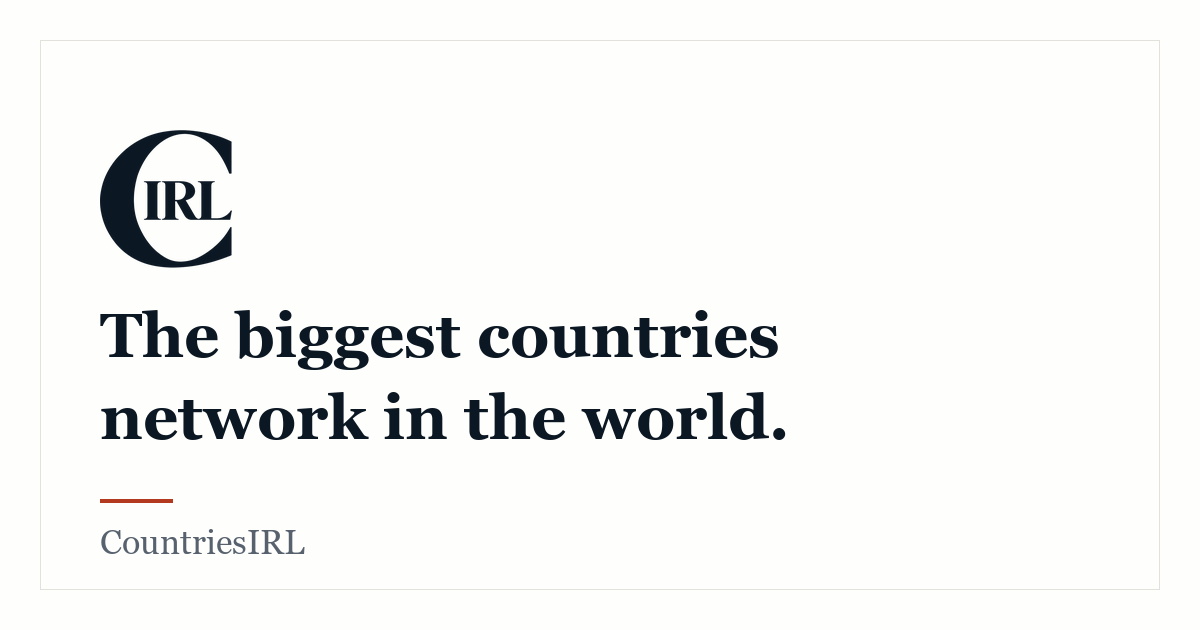
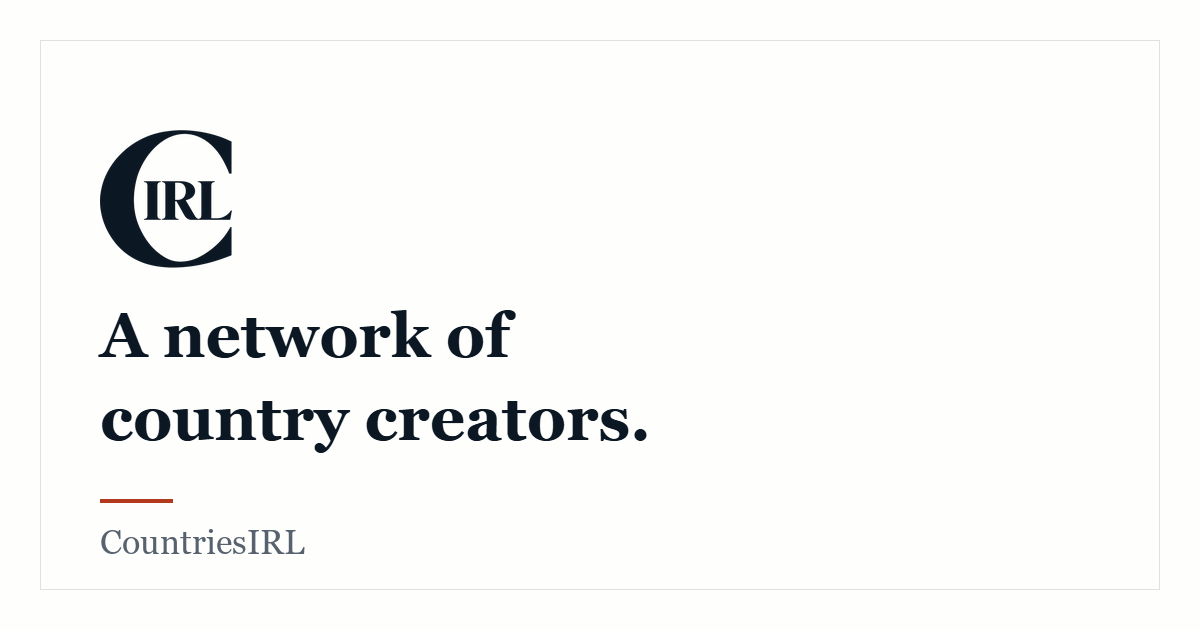
Privacy page, and a plain link preview without the "biggest" claim
- privacy/: what the application form collects, where it is kept (a private Google Sheet), who
  sees it, how to have it sent, corrected or deleted, and GitHub Pages' server logs. Linked from
  every page's footer and from the line under the form's buttons.
- The link preview card now reads "A network of country creators." (was "The biggest countries
  network in the world."), with its alt text to match and ?v=3 so apps fetch it again.
- Title and description: "CountriesIRL | A network of country creators" and "A network of
  creators making videos about countries.", in the head, config.js and the structured data; the
  apply page's description shortened the same way.

Changed region(s): [[0.0617, 0.4825, 0.6475, 0.7238]]

diff --git a/privacy/index.html b/privacy/index.html
@@ -1,0 +1,137 @@
+<!DOCTYPE html>
+<html lang="en" data-page="privacy">
+<head>
+  <meta charset="utf-8">
+  <meta name="viewport" content="width=device-width, initial-scale=1">
+
+  <!-- This page carries its own title and description, so main.js leaves the
+       head alone here (see data-page on <html>). -->
+  <title>Privacy | CountriesIRL</title>
+  <meta name="description" content="What CountriesIRL collects when you apply, and how to have it deleted.">
+  <meta name="robots" content="index, follow">
+  <link rel="canonical" href="https://countriesirl.com/privacy/">
+  <meta name="theme-color" content="#0b1723">
+
+  <link rel="icon" href="../assets/logo/favicon.png?v=2" type="image/png" sizes="64x64">
+  <link rel="apple-touch-icon" href="../assets/logo/apple-touch-icon.png?v=2">
+
+  <!-- Same cache buster as index.html — bump both together. -->
+  <link rel="stylesheet" href="../css/style.css?v=202610151200">
+</head>
+
+<body>
+  <a class="skip-link" href="#main">Skip to content</a>
+
+  <header class="site-header">
+    <div class="container header__inner">
+      <a class="brand" href="../">
+        <img class="brand__mark" src="../assets/logo/IRLLOGO-web.png?v=2" alt="" width="26" height="26">
+        <span class="brand__name" data-text="brand.name">CountriesIRL</span>
+      </a>
+
+      <button class="nav-toggle" type="button" aria-expanded="false" aria-controls="primary-nav">
+        <span class="nav-toggle__box" aria-hidden="true"><span></span><span></span><span></span></span>
+        <span class="visually-hidden">Menu</span>
+      </button>
+
+      <nav class="nav" id="primary-nav" aria-label="Primary">
+        <ul class="nav__list">
+          <li><a class="nav__link" href="../">Home</a></li>
+          <li><a class="nav__link" href="../#about">About</a></li>
+          <li><a class="nav__link" href="../#members">Members</a></li>
+          <li><a class="nav__link" href="../#community">Community</a></li>
+          <li><a class="nav__cta" href="../#join">Join</a></li>
+        </ul>
+      </nav>
+
+      <!-- The nine-dot tools menu. Its tiles come from `tools` in js/config.js. -->
+      <div class="apps">
+        <button class="apps__toggle" type="button" aria-expanded="false" aria-controls="apps-panel">
+          <svg class="apps__dots" viewBox="0 0 20 20" width="20" height="20" aria-hidden="true" focusable="false">
+            <circle cx="3" cy="3" r="2"/><circle cx="10" cy="3" r="2"/><circle cx="17" cy="3" r="2"/>
+            <circle cx="3" cy="10" r="2"/><circle cx="10" cy="10" r="2"/><circle cx="17" cy="10" r="2"/>
+            <circle cx="3" cy="17" r="2"/><circle cx="10" cy="17" r="2"/><circle cx="17" cy="17" r="2"/>
+          </svg>
+          <span class="visually-hidden">Tools</span>
+        </button>
+        <div class="apps__panel" id="apps-panel">
+          <p class="apps__title" data-text="tools.title">Tools</p>
+          <ul class="apps__list" data-render="tools"></ul>
+          <p class="apps__note" data-text="tools.note"></p>
+        </div>
+      </div>
+    </div>
+  </header>
+
+  <main id="main" tabindex="-1">
+    <section class="apply" aria-labelledby="privacy-title">
+      <div class="container">
+        <div class="apply__head">
+          <h1 id="privacy-title">Privacy</h1>
+          <p class="lead">This website doesn’t use cookies, ads or tracking. The only personal information we collect is what you send us when you apply.</p>
+        </div>
+
+        <div class="prose privacy__body">
+          <h2>When you apply</h2>
+          <p>The application form asks for your name, age and email address, your social media accounts and follower counts, and your answers about your work. You can also add your Discord username.</p>
+          <p>We use this only to review your application and to contact you about it. We don’t sell it or share it with anyone outside the CountriesIRL team.</p>
+          <p>Your answers are saved in a private Google Sheet that only the team can open, so Google stores them for us (<a href="https://policies.google.com/privacy">Google’s privacy policy</a>).</p>
+          <p>You need to be 13 or older to apply.</p>
+
+          <h2>Seeing or deleting your answers</h2>
+          <p>We keep an application while we review it, and a member’s for as long as they are in the network. Email <a href="mailto:countriesirlhub@gmail.com">countriesirlhub@gmail.com</a> and we will send you what we have, correct it, or delete it.</p>
+
+          <h2>Other services</h2>
+          <p>This site is hosted on GitHub Pages. GitHub keeps visitors’ IP addresses in its server logs for security (<a href="https://docs.github.com/en/site-policy/privacy-policies/github-general-privacy-statement">GitHub’s privacy statement</a>).</p>
+          <p>Links to Instagram, TikTok, YouTube and Discord take you to those services, which have their own privacy policies.</p>
+          <p>The <a href="https://maps.countriesirl.com">Map Editor</a> collects nothing: the maps you make stay on your device.</p>
+
+          <h2>Contact</h2>
+          <p><a href="mailto:countriesirlhub@gmail.com">countriesirlhub@gmail.com</a></p>
+          <p>Last updated 15 October 2026.</p>
+        </div>
+      </div>
+    </section>
+  </main>
+
+
+  <footer class="site-footer">
+    <div class="container">
+      <div class="footer__grid">
+        <div class="footer__brand">
+          <a class="brand" href="../">
+            <img class="brand__mark" src="../assets/logo/IRLLOGO-web.png?v=2" alt="" width="26" height="26">
+            <span class="brand__name" data-text="brand.name">CountriesIRL</span>
+          </a>
+          <p class="footer__note" data-text="footer.note"></p>
+        </div>
+
+        <div>
+          <h2 class="footer__col-title">Sections</h2>
+          <ul class="footer__list">
+            <li><a href="../#about">About</a></li>
+            <li><a href="../#members">Members</a></li>
+            <li><a href="../#community">Community</a></li>
+            <li><a href="https://maps.countriesirl.com">Map Editor</a></li>
+            <li><a href="../#join">Join</a></li>
+          </ul>
+        </div>
+
+        <div>
+          <h2 class="footer__col-title">Elsewhere</h2>
+          <ul class="footer__list" data-render="social"></ul>
+        </div>
+      </div>
+
+      <div class="footer__bottom">
+        <p><span data-render="year"></span> <span data-text="brand.name"></span></p>
+        <p data-render="contact"></p>
+        <p><a href="./" aria-current="page">Privacy</a></p>
+      </div>
+    </div>
+  </footer>
+
+  <script src="../js/config.js?v=202610151200"></script>
+  <script src="../js/main.js?v=202610121400"></script>
+</body>
+</html>

diff --git a/index.html b/index.html
@@ -9,27 +9,27 @@
        written out here so crawlers and link previews see them without running
        JavaScript. These are the home page's; the application form (apply/)
        has its own title, description and URL. -->
-  <title>CountriesIRL — a global network of country-focused creators</title>
-  <meta name="description" content="Creators from around the world covering countries, culture, history and geography, through educational and entertaining content and documentaries.">
+  <title>CountriesIRL | A network of country creators</title>
+  <meta name="description" content="A network of creators making videos about countries.">
   <meta name="robots" content="index, follow, max-image-preview:large">
   <link rel="canonical" href="https://countriesirl.com/">
   <meta name="theme-color" content="#0b1723">
 
   <meta property="og:type" content="website">
   <meta property="og:site_name" content="CountriesIRL">
-  <meta property="og:title" content="CountriesIRL — a global network of country-focused creators">
-  <meta property="og:description" content="Creators from around the world covering countries, culture, history and geography, through educational and entertaining content and documentaries.">
+  <meta property="og:title" content="CountriesIRL | A network of country creators">
+  <meta property="og:description" content="A network of creators making videos about countries.">
   <meta property="og:url" content="https://countriesirl.com/">
-  <meta property="og:image" content="https://countriesirl.com/assets/og-image.png?v=2">
+  <meta property="og:image" content="https://countriesirl.com/assets/og-image.png?v=3">
   <meta property="og:image:type" content="image/png">
   <meta property="og:image:width" content="1200">
   <meta property="og:image:height" content="630">
-  <meta property="og:image:alt" content="The CountriesIRL logo above the words “The biggest countries network in the world.”">
+  <meta property="og:image:alt" content="The CountriesIRL logo above the words “A network of country creators.”">
   <meta name="twitter:card" content="summary_large_image">
-  <meta name="twitter:title" content="CountriesIRL — a global network of country-focused creators">
-  <meta name="twitter:description" content="Creators from around the world covering countries, culture, history and geography, through educational and entertaining content and documentaries.">
-  <meta name="twitter:image" content="https://countriesirl.com/assets/og-image.png?v=2">
-  <meta name="twitter:image:alt" content="The CountriesIRL logo above the words “The biggest countries network in the world.”">
+  <meta name="twitter:title" content="CountriesIRL | A network of country creators">
+  <meta name="twitter:description" content="A network of creators making videos about countries.">
+  <meta name="twitter:image" content="https://countriesirl.com/assets/og-image.png?v=3">
+  <meta name="twitter:image:alt" content="The CountriesIRL logo above the words “A network of country creators.”">
 
   <link rel="icon" href="assets/logo/favicon.png?v=2" type="image/png" sizes="64x64">
   <link rel="apple-touch-icon" href="assets/logo/apple-touch-icon.png?v=2">
@@ -53,8 +53,8 @@
           "width": 1024,
           "height": 1024
         },
-        "image": "https://countriesirl.com/assets/og-image.png?v=2",
-        "description": "A global network of creators focused on the world's countries, cultures, people and history, combining education and entertainment through content, documentaries and other projects.",
+        "image": "https://countriesirl.com/assets/og-image.png?v=3",
+        "description": "A network of creators making videos about countries.",
         "foundingDate": "2026-03-03",
         "email": "countriesirlhub@gmail.com",
         "sameAs": [
@@ -68,7 +68,7 @@
         "@id": "https://countriesirl.com/#website",
         "name": "CountriesIRL",
         "url": "https://countriesirl.com/",
-        "description": "Creators from around the world covering countries, culture, history and geography, through educational and entertaining content and documentaries.",
+        "description": "A network of creators making videos about countries.",
         "inLanguage": "en",
         "publisher": { "@id": "https://countriesirl.com/#organization" }
       }
@@ -80,7 +80,7 @@
        max-age, so without it a fresh index.html can pair with a stale
        stylesheet or config and render a half-broken page. Bump it on any
        change to css/style.css, js/config.js or js/main.js. -->
-  <link rel="stylesheet" href="css/style.css?v=202610121700">
+  <link rel="stylesheet" href="css/style.css?v=202610151200">
 </head>
 
 <body>
@@ -280,11 +280,12 @@
       <div class="footer__bottom">
         <p><span data-render="year"></span> <span data-text="brand.name"></span></p>
         <p data-render="contact"></p>
+        <p><a href="privacy/">Privacy</a></p>
       </div>
     </div>
   </footer>
 
-  <script src="js/config.js?v=202610122300"></script>
+  <script src="js/config.js?v=202610151200"></script>
   <script src="js/main.js?v=202610121400"></script>
   <script src="js/globe.js?v=202609252200" defer></script>
 </body>

diff --git a/apply/index.html b/apply/index.html
@@ -7,7 +7,7 @@
   <!-- This page carries its own title, description and preview tags, so
        main.js leaves the head alone here (see data-page on <html>). -->
   <title>Apply to join CountriesIRL</title>
-  <meta name="description" content="Apply to join CountriesIRL, the global network of country-focused creators — as the account for a country, or on the creative team behind it.">
+  <meta name="description" content="Apply to run a country account for CountriesIRL, or to join its creative team.">
   <meta name="robots" content="index, follow, max-image-preview:large">
   <link rel="canonical" href="https://countriesirl.com/apply/">
   <meta name="theme-color" content="#0b1723">
@@ -15,24 +15,24 @@
   <meta property="og:type" content="website">
   <meta property="og:site_name" content="CountriesIRL">
   <meta property="og:title" content="Apply to join CountriesIRL">
-  <meta property="og:description" content="Apply to join CountriesIRL, the global network of country-focused creators — as the account for a country, or on the creative team behind it.">
+  <meta property="og:description" content="Apply to run a country account for CountriesIRL, or to join its creative team.">
   <meta property="og:url" content="https://countriesirl.com/apply/">
-  <meta property="og:image" content="https://countriesirl.com/assets/og-image.png?v=2">
+  <meta property="og:image" content="https://countriesirl.com/assets/og-image.png?v=3">
   <meta property="og:image:type" content="image/png">
   <meta property="og:image:width" content="1200">
   <meta property="og:image:height" content="630">
-  <meta property="og:image:alt" content="The CountriesIRL logo above the words “The biggest countries network in the world.”">
+  <meta property="og:image:alt" content="The CountriesIRL logo above the words “A network of country creators.”">
   <meta name="twitter:card" content="summary_large_image">
   <meta name="twitter:title" content="Apply to join CountriesIRL">
-  <meta name="twitter:description" content="Apply to join CountriesIRL, the global network of country-focused creators — as the account for a country, or on the creative team behind it.">
-  <meta name="twitter:image" content="https://countriesirl.com/assets/og-image.png?v=2">
-  <meta name="twitter:image:alt" content="The CountriesIRL logo above the words “The biggest countries network in the world.”">
+  <meta name="twitter:description" content="Apply to run a country account for CountriesIRL, or to join its creative team.">
+  <meta name="twitter:image" content="https://countriesirl.com/assets/og-image.png?v=3">
+  <meta name="twitter:image:alt" content="The CountriesIRL logo above the words “A network of country creators.”">
 
   <link rel="icon" href="../assets/logo/favicon.png?v=2" type="image/png" sizes="64x64">
   <link rel="apple-touch-icon" href="../assets/logo/apple-touch-icon.png?v=2">
 
   <!-- Same cache buster as index.html — bump both together. -->
-  <link rel="stylesheet" href="../css/style.css?v=202610121700">
+  <link rel="stylesheet" href="../css/style.css?v=202610151200">
 </head>
 
 <body>
@@ -386,7 +386,7 @@
                 <button class="btn btn--primary" id="apply-next" type="submit">Next</button>
                 <button class="btn btn--primary" id="apply-submit" type="submit" hidden><span class="apply-submit__label">Submit application</span></button>
               </div>
-              <p class="apply-form__privacy">Your answers are sent to the CountriesIRL team for review.</p>
+              <p class="apply-form__privacy">Your answers are sent to the CountriesIRL team for review. <a href="../privacy/">How we handle them</a>.</p>
 
               <p class="visually-hidden" id="apply-announce" aria-live="assertive"></p>
             </form>
@@ -436,11 +436,12 @@
       <div class="footer__bottom">
         <p><span data-render="year"></span> <span data-text="brand.name"></span></p>
         <p data-render="contact"></p>
+        <p><a href="../privacy/">Privacy</a></p>
       </div>
     </div>
   </footer>
 
-  <script src="../js/config.js?v=202610122300"></script>
+  <script src="../js/config.js?v=202610151200"></script>
   <script src="../js/main.js?v=202610121400"></script>
   <script src="../js/countries.js?v=202610121600"></script>
   <script src="../js/apply.js?v=202610122000"></script>

diff --git a/js/config.js b/js/config.js
@@ -34,11 +34,9 @@ window.SITE_CONFIG = {
      it there too.
      ------------------------------------------------------------------ */
   meta: {
-    title: 'CountriesIRL — a global network of country-focused creators',
-    description:
-      'Creators from around the world covering countries, culture, history and ' +
-      'geography, through educational and entertaining content and documentaries.',
-    ogImage: 'assets/og-image.png?v=2'
+    title: 'CountriesIRL | A network of country creators',
+    description: 'A network of creators making videos about countries.',
+    ogImage: 'assets/og-image.png?v=3'
   },
 
   /* ------------------------------------------------------------------

diff --git a/css/style.css b/css/style.css
@@ -163,6 +163,12 @@ h2 + .lead { margin-top: 1.25rem; }
 }
 
 .prose > p + p { margin-top: 1.15em; }
+
+/* The privacy notice (privacy/): plain sections of prose under the page title. */
+.privacy__body { max-width: 46rem; }
+.privacy__body h2 { margin-top: 2.25rem; font-size: 1.35rem; }
+.privacy__body h2 + p { margin-top: 0.6rem; }
+.privacy__body a { color: var(--accent); }
 .prose p { max-width: var(--measure); color: var(--ink-soft); }
 
 /* Small tracked label used for section numbers and list captions. */
